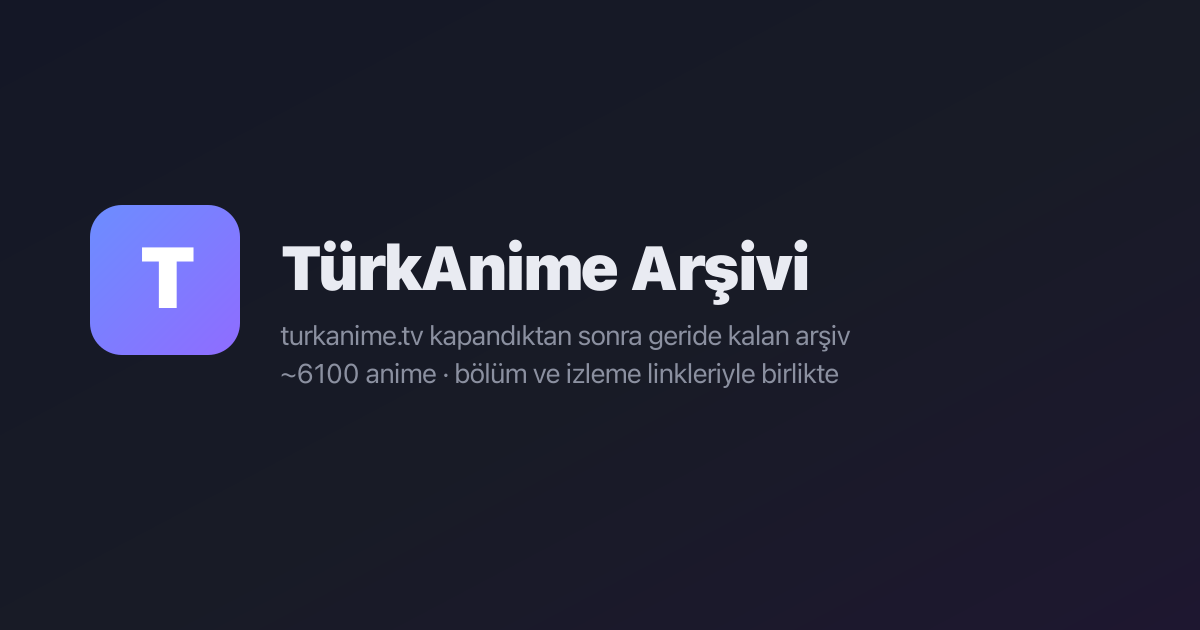
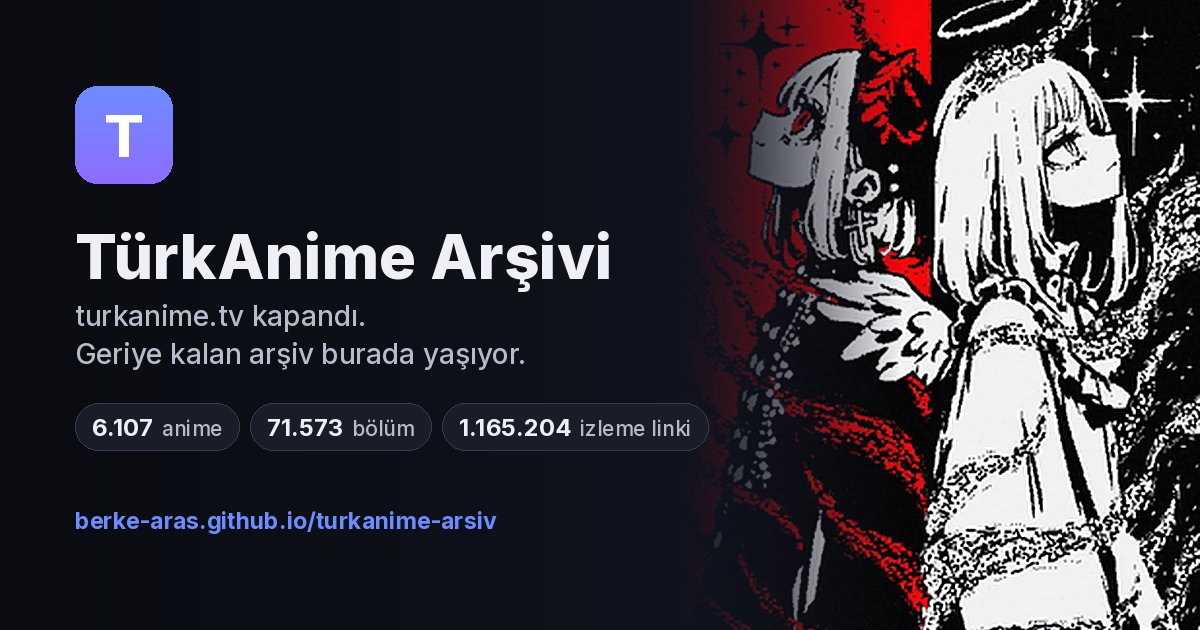
Google doğrulama dosyası ve paylaşım görselleri (§7.6)
- google65be1d669fd704c0.html repo köküne eklendi; GitHub Pages bunu aynen
  servis ettiği için Search Console'da Verify'a basmak yeterli. Dosyanın
  sessizce kaybolmaması için veri bütünlüğü testi eklendi.

- scripts/social-gorsel.py: GitHub sosyal önizlemesi (1280x640) ve sitenin
  og:image'i (1200x630) tek kaynaktan üretiliyor. Sanat README'deki
  loop-1.gif'in bir karesi (repodaki görsel dil korunsun diye), yazı tipi
  Inter, sayılar kaynak/data.js'ten okunuyor — veri tazelenince script
  yeniden çalıştırılıp görseller güncellenebiliyor.
  docs/assets/social-preview.png ve yenilenen og-image.png commit edildi;
  boyut ve dosya ağırlığı (GitHub'ın 1 MB sınırı) testle korunuyor.

Sosyal önizleme görselinin repoya yüklenmesi elle yapılıyor:
Settings > General > Social preview > Edit > Upload an image.

Birim test 74, duman testi 114/114.

Claude-Session: https://claude.ai/code/session_01TRZo28kaMGiBxaSG9qHM1C

diff --git a/test/veri-butunlugu.test.js b/test/veri-butunlugu.test.js
@@ -168,3 +168,29 @@ test("service worker kabuk listesi js/ altındaki her modülü kapsıyor (§1.5)
     assert.ok(liste.has(`fonts/${f}`), `fonts/${f} kabuk cache'inde yok`);
   }
 });
+
+test("Google Search Console doğrulama dosyası yerinde (§7.6)", () => {
+  // Dosya silinirse ya da içeriği bozulursa Google mülkiyet doğrulamasını düşürür ve
+  // sitemap gönderimi durur; sessizce kaybolmasın diye test ediliyor.
+  const ad = "google65be1d669fd704c0.html";
+  const yol = path.join(ROOT, ad);
+  assert.ok(fs.existsSync(yol), `${ad} repo kökünde olmalı (GitHub Pages bunu aynen servis ediyor)`);
+  assert.equal(fs.readFileSync(yol, "utf8").trim(), `google-site-verification: ${ad}`);
+});
+
+test("paylaşım görselleri doğru boyutta (§7.6)", () => {
+  // PNG başlığından genişlik/yükseklik: IHDR ilk 8 baytı imza, sonra 4 uzunluk + 4 tip.
+  const olc = p => {
+    const b = fs.readFileSync(p);
+    return { g: b.readUInt32BE(16), y: b.readUInt32BE(20), kb: Math.round(b.length / 1024) };
+  };
+  const sosyal = olc(path.join(ROOT, "docs/assets/social-preview.png"));
+  // GitHub sosyal önizleme: 1280x640 önerilir, 1 MB üstü kabul edilmiyor.
+  assert.deepEqual([sosyal.g, sosyal.y], [1280, 640]);
+  assert.ok(sosyal.kb < 1024, `social-preview.png ${sosyal.kb} KB — GitHub sınırı 1 MB`);
+
+  const og = olc(path.join(ROOT, "og-image.png"));
+  const html = fs.readFileSync(path.join(ROOT, "index.html"), "utf8");
+  const oku = n => Number((new RegExp(`property="og:image:${n}" content="(\\d+)"`).exec(html) || [])[1]);
+  assert.deepEqual([og.g, og.y], [oku("width"), oku("height")], "og:image meta etiketleri dosyayla uyuşmuyor");
+});

diff --git a/google65be1d669fd704c0.html b/google65be1d669fd704c0.html
@@ -1,0 +1,1 @@
+google-site-verification: google65be1d669fd704c0.html

diff --git a/scripts/social-gorsel.py b/scripts/social-gorsel.py
@@ -1,0 +1,127 @@
+#!/usr/bin/env python3
+"""GitHub sosyal önizleme görselini ve sitenin og:image'ini üretir.
+
+    pip install pillow
+    python3 scripts/social-gorsel.py
+
+Neden burada: GitHub arama sonuçlarında ve paylaşılan linklerde çıkan görsel (§7.6).
+Sanat, README'deki `docs/assets/loop-1.gif` animasyonunun bir karesi — repodaki görsel
+dille aynı kalsın diye yeni bir çizim aranmadı.
+
+Çıktılar:
+  docs/assets/social-preview.png  1280x640  → GitHub Settings > General > Social preview
+  og-image.png                    1200x630  → index.html'deki og:image / twitter:image
+
+Yazı tipi: Inter. Render için TTF gerekiyor; repodaki `fonts/*.woff2` PIL tarafından
+okunamadığı için TTF'ler Google Fonts'tan geçici bir dizine indiriliyor (repoya girmiyor).
+Ağ yoksa script sistem fontuna düşer ve bunu söyler.
+"""
+import os, re, subprocess, sys, tempfile, urllib.request
+from PIL import Image, ImageDraw, ImageFont, ImageFilter
+
+KOK = os.path.dirname(os.path.dirname(os.path.abspath(__file__)))
+GECICI = os.path.join(tempfile.gettempdir(), 'tka-inter-ttf')
+UA_ESKI = 'Mozilla/4.0'   # eski user-agent: Google Fonts woff2 yerine ttf veriyor
+
+BG1, BG2 = (10, 12, 17), (21, 24, 39)
+ACCENT, ACCENT2 = (108, 141, 255), (143, 108, 255)
+BEYAZ, GRI, CIP_ZEMIN, CIP_KENAR = (238, 240, 246), (183, 188, 203), (25, 29, 39), (53, 60, 80)
+
+# Katalog sayıları: kaynak/data.js'ten okunuyor ki görsel veriyle birlikte tazelensin.
+def sayilar():
+    metin = open(os.path.join(KOK, 'kaynak', 'data.js'), encoding='utf-8').read()
+    kayitlar = re.findall(r'\[("(?:[^"\\]|\\.)*"),(?:[^][]|\[[^]]*\])*?\]', metin)
+    bolum = link = 0
+    for m in re.finditer(r',(\d+),(\d+)\]', metin):
+        bolum += int(m.group(1)); link += int(m.group(2))
+    return len(kayitlar), bolum, link
+
+def tr(n):
+    return f'{n:,}'.replace(',', '.')
+
+def fontlar():
+    os.makedirs(GECICI, exist_ok=True)
+    yollar = {}
+    try:
+        css = urllib.request.urlopen(urllib.request.Request(
+            'https://fonts.googleapis.com/css2?family=Inter:wght@400;500;700;800&display=swap',
+            headers={'User-Agent': UA_ESKI}), timeout=20).read().decode()
+        for agirlik, url in re.findall(r'font-weight: (\d+);\s*font-display: swap;\s*src: url\((https://[^)]+\.ttf)\)', css):
+            yol = os.path.join(GECICI, f'Inter-{agirlik}.ttf')
+            if not os.path.exists(yol):
+                urllib.request.urlretrieve(url, yol)
+            yollar[int(agirlik)] = yol
+    except Exception as e:                       # ağ yoksa sistem fontuna düş
+        print(f'! Inter indirilemedi ({e}); sistem fontu kullanılacak', file=sys.stderr)
+    return yollar
+
+YOLLAR = {}
+def font(agirlik, boyut):
+    yol = YOLLAR.get(agirlik)
+    return ImageFont.truetype(yol, boyut) if yol else ImageFont.load_default(boyut)
+
+def ciz(genislik, yukseklik):
+    o = genislik / 1280.0                        # 1280x640 tasarımına göre ölçek
+    px = lambda v: int(round(v * o))
+
+    tuval = Image.new('RGB', (genislik, yukseklik))
+    d = ImageDraw.Draw(tuval)
+    for x in range(genislik):                    # köşegen his veren yatay gradyan
+        t = x / genislik
+        d.line([(x, 0), (x, yukseklik)], fill=tuple(int(BG1[i] + (BG2[i] - BG1[i]) * t) for i in range(3)))
+
+    # --- sağda README gif'inin bir karesi, sol kenarı zemine eriyor ---
+    gif = Image.open(os.path.join(KOK, 'docs/assets/loop-1.gif')); gif.seek(2)
+    kare = gif.convert('RGB')
+    sanat_g = px(560)
+    sanat = kare.resize((sanat_g, int(kare.height * sanat_g / kare.width)), Image.LANCZOS)
+    sanat = sanat.filter(ImageFilter.UnsharpMask(radius=1.4, percent=90, threshold=3))
+    if sanat.height > yukseklik:                 # yüzler görünsün diye üstten az kırp
+        ust = int((sanat.height - yukseklik) * 0.22)
+        sanat = sanat.crop((0, ust, sanat_g, ust + yukseklik))
+    else:
+        sanat = sanat.resize((sanat_g, yukseklik), Image.LANCZOS)
+    gecis = px(240)
+    maske = Image.new('L', (sanat_g, yukseklik), 255)
+    md = ImageDraw.Draw(maske)
+    for x in range(gecis):
+        md.line([(x, 0), (x, yukseklik)], fill=int(255 * (x / gecis) ** 1.4))
+    tuval.paste(sanat, (genislik - sanat_g, 0), maske)
+
+    # --- logo karesi (sitenin ikonuyla aynı gradyan) ---
+    lx, ly, ls = px(80), px(92), px(104)
+    logo = Image.new('RGB', (ls, ls))
+    ld = ImageDraw.Draw(logo)
+    for i in range(ls):
+        t = i / ls
+        ld.line([(0, i), (ls, i)], fill=tuple(int(ACCENT[k] + (ACCENT2[k] - ACCENT[k]) * t) for k in range(3)))
+    yuvarlak = Image.new('L', (ls, ls), 0)
+    ImageDraw.Draw(yuvarlak).rounded_rectangle([0, 0, ls - 1, ls - 1], radius=px(24), fill=255)
+    tuval.paste(logo, (lx, ly), yuvarlak)
+    d.text((lx + ls / 2, ly + ls / 2), 'T', font=font(800, px(62)), fill=(255, 255, 255), anchor='mm')
+
+    # --- metinler ---
+    d.text((px(80), px(232)), 'TürkAnime Arşivi', font=font(800, px(66)), fill=BEYAZ)
+    d.text((px(80), px(318)), 'turkanime.tv kapandı.', font=font(500, px(30)), fill=GRI)
+    d.text((px(80), px(358)), 'Geriye kalan arşiv burada yaşıyor.', font=font(500, px(30)), fill=GRI)
+
+    anime, bolum, link = sayilar()
+    x = px(80)
+    for sayi, etiket in [(tr(anime), 'anime'), (tr(bolum), 'bölüm'), (tr(link), 'izleme linki')]:
+        f1, f2 = font(700, px(26)), font(500, px(22))
+        g1, g2 = d.textlength(sayi, font=f1), d.textlength(etiket, font=f2)
+        w = int(g1 + g2 + px(46))
+        d.rounded_rectangle([x, px(430), x + w, px(480)], radius=px(25), fill=CIP_ZEMIN, outline=CIP_KENAR)
+        d.text((x + px(18), px(455)), sayi, font=f1, fill=BEYAZ, anchor='lm')
+        d.text((x + px(18) + g1 + px(10), px(456)), etiket, font=f2, fill=GRI, anchor='lm')
+        x += w + px(12)
+
+    d.text((px(80), px(540)), 'berke-aras.github.io/turkanime-arsiv', font=font(700, px(25)), fill=ACCENT)
+    return tuval
+
+if __name__ == '__main__':
+    YOLLAR = fontlar()
+    for yol, boyut in [('docs/assets/social-preview.png', (1280, 640)), ('og-image.png', (1200, 630))]:
+        tam = os.path.join(KOK, yol)
+        ciz(*boyut).save(tam, optimize=True)
+        print(f'{yol}  {boyut[0]}x{boyut[1]}  {os.path.getsize(tam) // 1024} KB')

diff --git a/README.md b/README.md
@@ -103,6 +103,8 @@ scripts/build-meta.js                       info.json'lardan meta.js üretir
 scripts/build-posters.js                    AniList kapaklarını meta.js'e gömer
 scripts/trim-data.js                        data.js'i kullanılan alanlara kırpar
 scripts/smoke-test.js                       tarayıcı duman testi (Playwright)
+scripts/social-gorsel.py                    GitHub sosyal önizlemesi + og:image üretir
+docs/assets/social-preview.png              GitHub Settings > Social preview'a yüklenen görsel
 test/                                       birim ve veri bütünlüğü testleri
 api/ · cf/                                  reklamsız oynatıcı yardımcıları (sibnet · okru · uqload)
 ```
